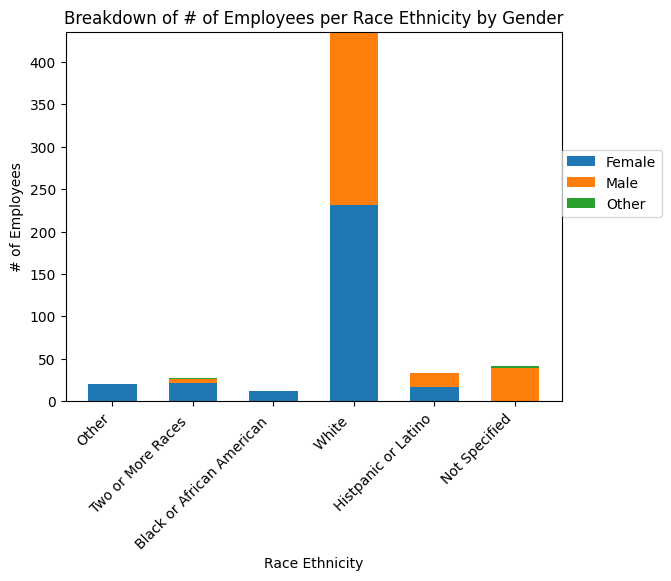
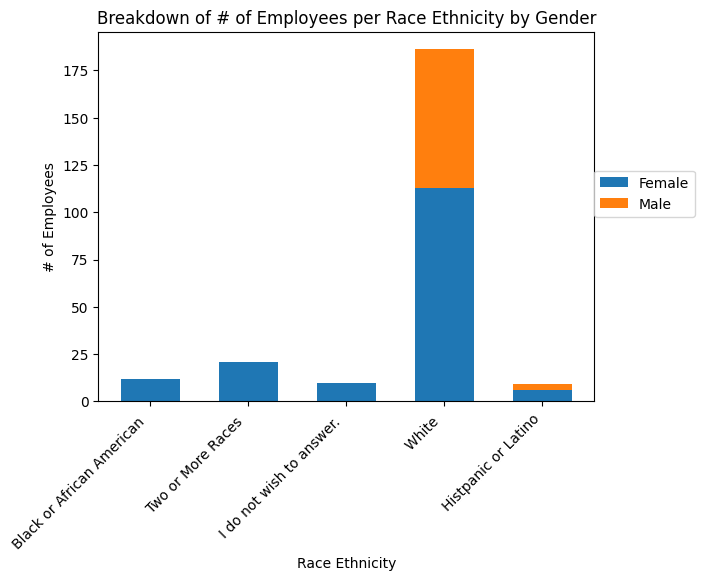
working regenerateGraphs

diff --git a/main.py b/main.py
@@ -329,30 +329,27 @@ def regenerateGraphs():
     dataset_path = './static/datasets/current.csv'
     images, selected = getImgs()
     split_images = [item[:-4].split('_') for item in images]
-    print(split_images)
     for img in split_images:
         type= img[-1]
+        print({'IMG: ' : img, 'TYPE: ' : img[-1]})
         if type == 'stackedBar':
             columnName1 = img[0]
             columnName2 = img[1]
-            print(columnName1, columnName2, type)
             imageName = makeImageName(columnName1 + "_" + columnName2, type, False)
             stackedBarChart(columnName1, columnName2, imageName)
         else:
             columnName1 = img[0]
-            print(columnName1, type)
             if type == 'pie' or type == 'treemap' or type == 'bar':
                 imageName = makeImageName(columnName1, type, False)
                 singleCategoryGraph(type, columnName1, imageName)
-                if type == 'histogram':
+            if type == 'histogram':
                 imageName = makeImageName(columnName1, type, False)
                 histogram(columnName1, imageName)
-        addGraphToDb(path="./static/graphs/" + imageName, title=imageName.replace('.png', ''), description="TEST")
 
+#11:02:35
 @login_required
 @app.route("/selectDataset/<filename>", methods=["GET"])
 def selectDataset(filename):
-    print("selecting new dataset")
     normal_file_path = os.path.join('./static/datasets', filename)
     file_path = normal_file_path if os.path.exists(normal_file_path) else ""
 
@@ -432,6 +429,24 @@ def remove_graph():
     graph.group_id = None
     db.session.commit()
     return '', 204
+
+@app.route('/createGroup', methods=['POST'])
+def createGroup():
+    new_group_name = request.form['new_group_name']
+    new_group = GraphGroup(group_name=new_group_name)
+    db.session.add(new_group)
+    db.session.commit()
+    return redirect('/editGroups')
+
+@app.route('/deleteGroup/<group_id>', methods=['DELETE'])
+def deleteGroup(group_id):
+    print(group_id)
+    try:
+        db.session.delete(GraphGroup.query.get(group_id))
+        db.session.commit()
+        return jsonify({'message': 'Group deleted successfully'}), 200
+    except:
+        return jsonify({'message': 'Error deleting group'}), 500
 
 
 # ____ROUTES_END____

diff --git a/createGraphs.py b/createGraphs.py
@@ -8,8 +8,11 @@ path = os.path.join(dir,'static', 'datasets', 'current.csv')
 displayedDirPath = os.path.join(dir,'static', 'currentlyDisplayed')
 dfMain = pd.read_csv(path)
 
+def updateDataset():
+    dfMain = pd.read_csv(path)
+    return dfMain
+
 def saveImage(fileName, fig):
-    print('in save')
     normalPath = os.path.join(dir, 'static', 'graphs', fileName)
     displayPath = os.path.join(displayedDirPath, fileName)
     fig.savefig(normalPath, bbox_inches="tight")
@@ -35,6 +38,7 @@ def createOther(df, columnName):
     return df
     
 def singleCategoryGraph(type, columnName, fileName):
+    dfMain = updateDataset()
     df = createOther(dfMain.copy(),columnName)
     dict = df[columnName].value_counts().to_dict()
     keys = list(dict.keys())
@@ -66,15 +70,8 @@ def singleCategoryGraph(type, columnName, fileName):
                 plt.xticks(rotation=45, ha='right')
     saveImage(fileName,fig)
 
-    import matplotlib.image as mpimg
-    image_path = './static/graphs/'+fileName
-    image = mpimg.imread(image_path)
-    plt.imshow(image)
-    plt.show()
-
-
 def histogram(columnName, fileName):
-    df = dfMain.copy()
+    df = updateDataset()
     unsortedDict = df[columnName].value_counts().to_dict()
     keysMax = max(list(unsortedDict.keys()))
     keysMin = min(list(unsortedDict.keys()))
@@ -93,7 +90,8 @@ def histogram(columnName, fileName):
 
 
 def stackedBarChart(mainColumnName, secondaryColumnName, fileName):
-    df = createOther(dfMain.copy(),mainColumnName)
+    df = updateDataset()
+    df = createOther(df,mainColumnName)
     df = createOther(df,secondaryColumnName)
     dict = {}
     subDict = {}
@@ -118,8 +116,7 @@ def stackedBarChart(mainColumnName, secondaryColumnName, fileName):
     values = []
     for yLabel in yLabels:
         values.append([dict[xLabel]['values'][yLabel] for xLabel in xLabels])
-    print(values)
-    
+
     fig, ax = plt.subplots()
     bottomTotal = [0 for _ in range(len(xLabels))]
     specialCase = (mainColumnName == 'Race Ethnicity' or mainColumnName == 'Department')
